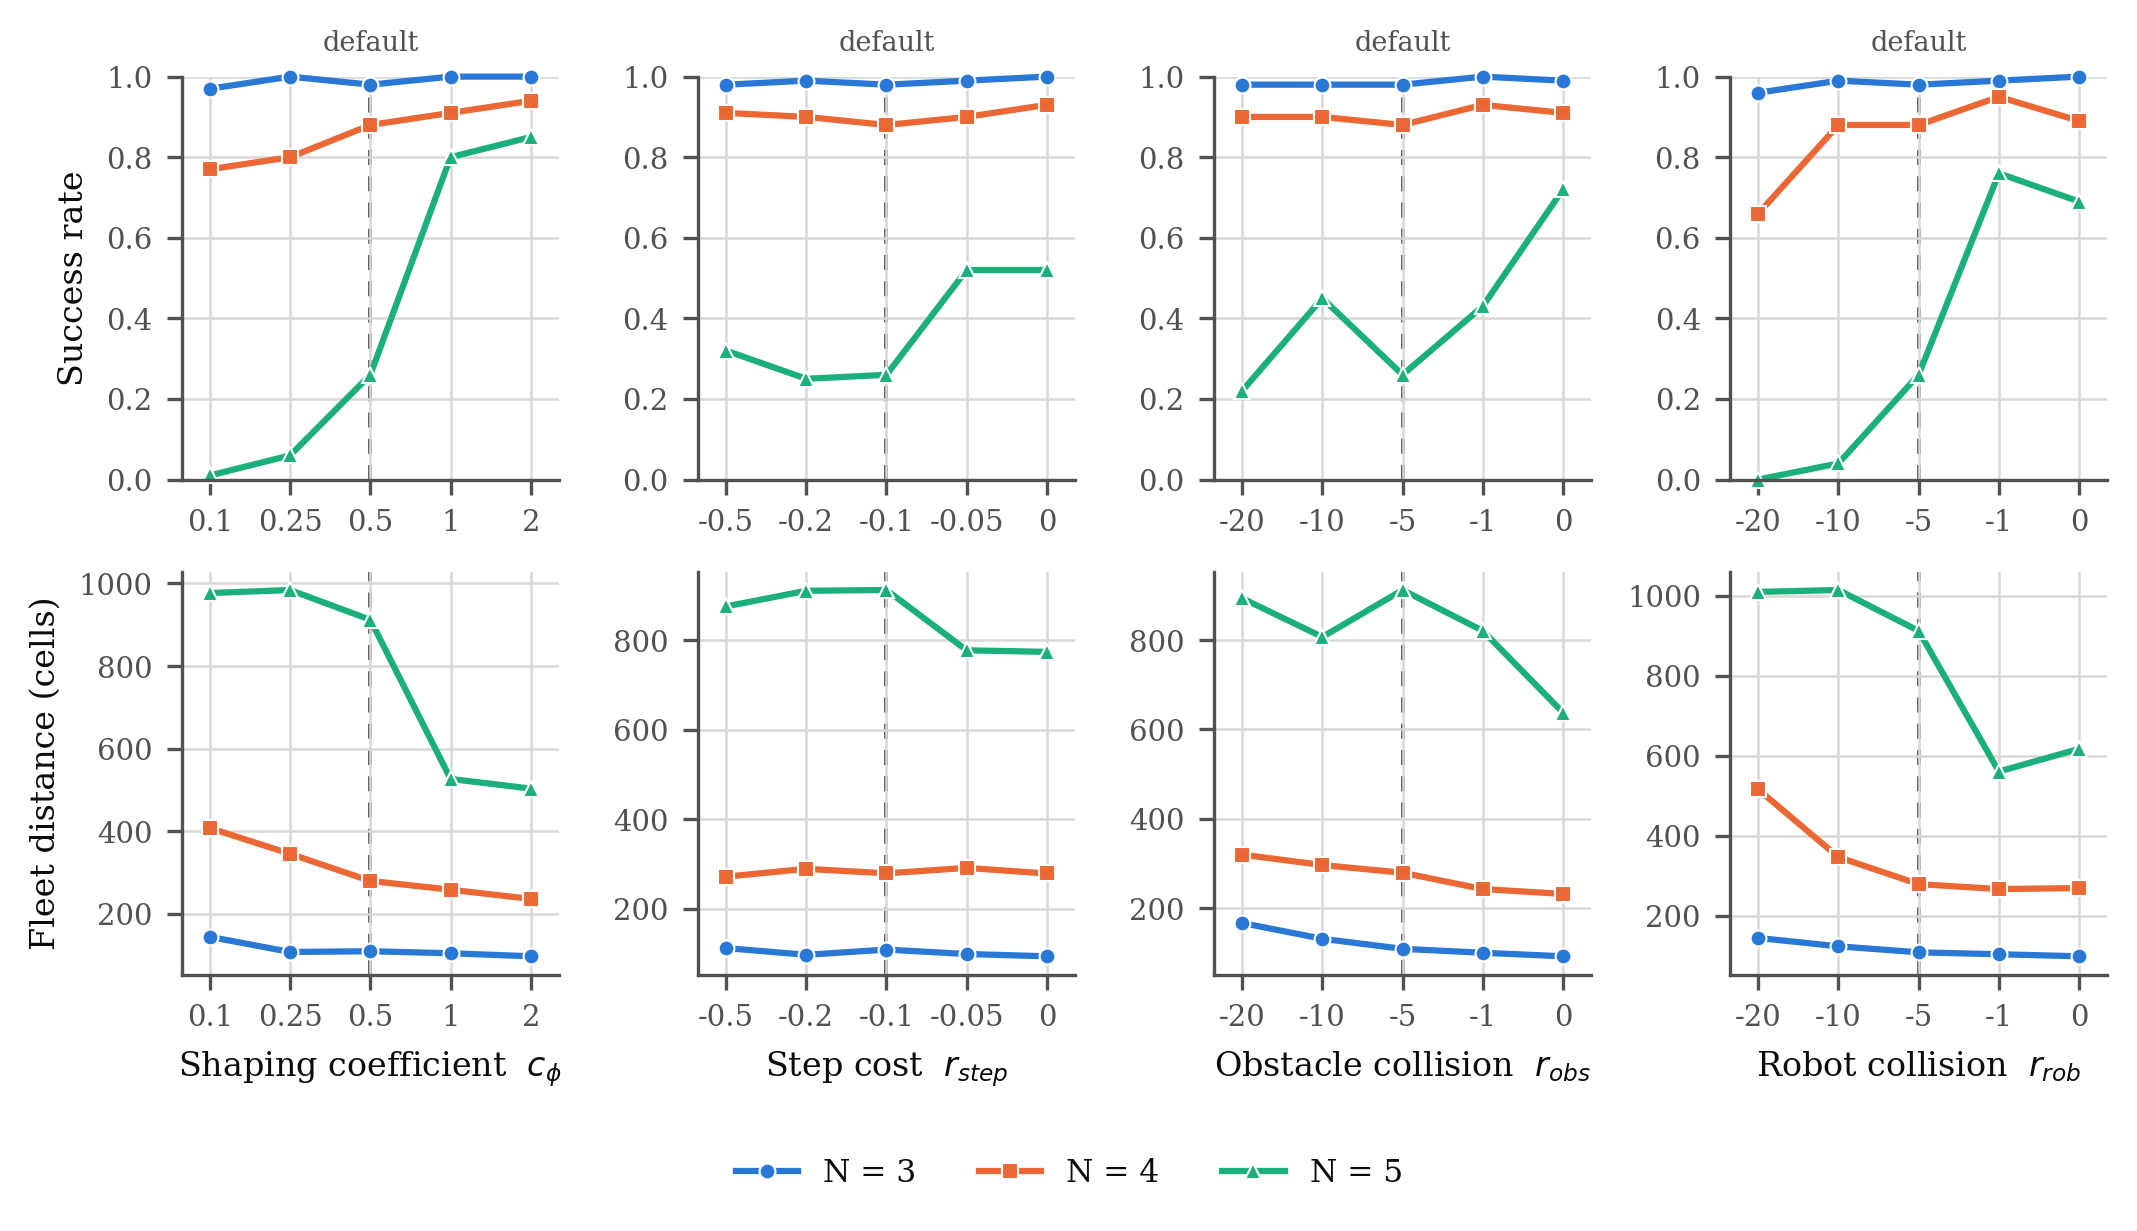
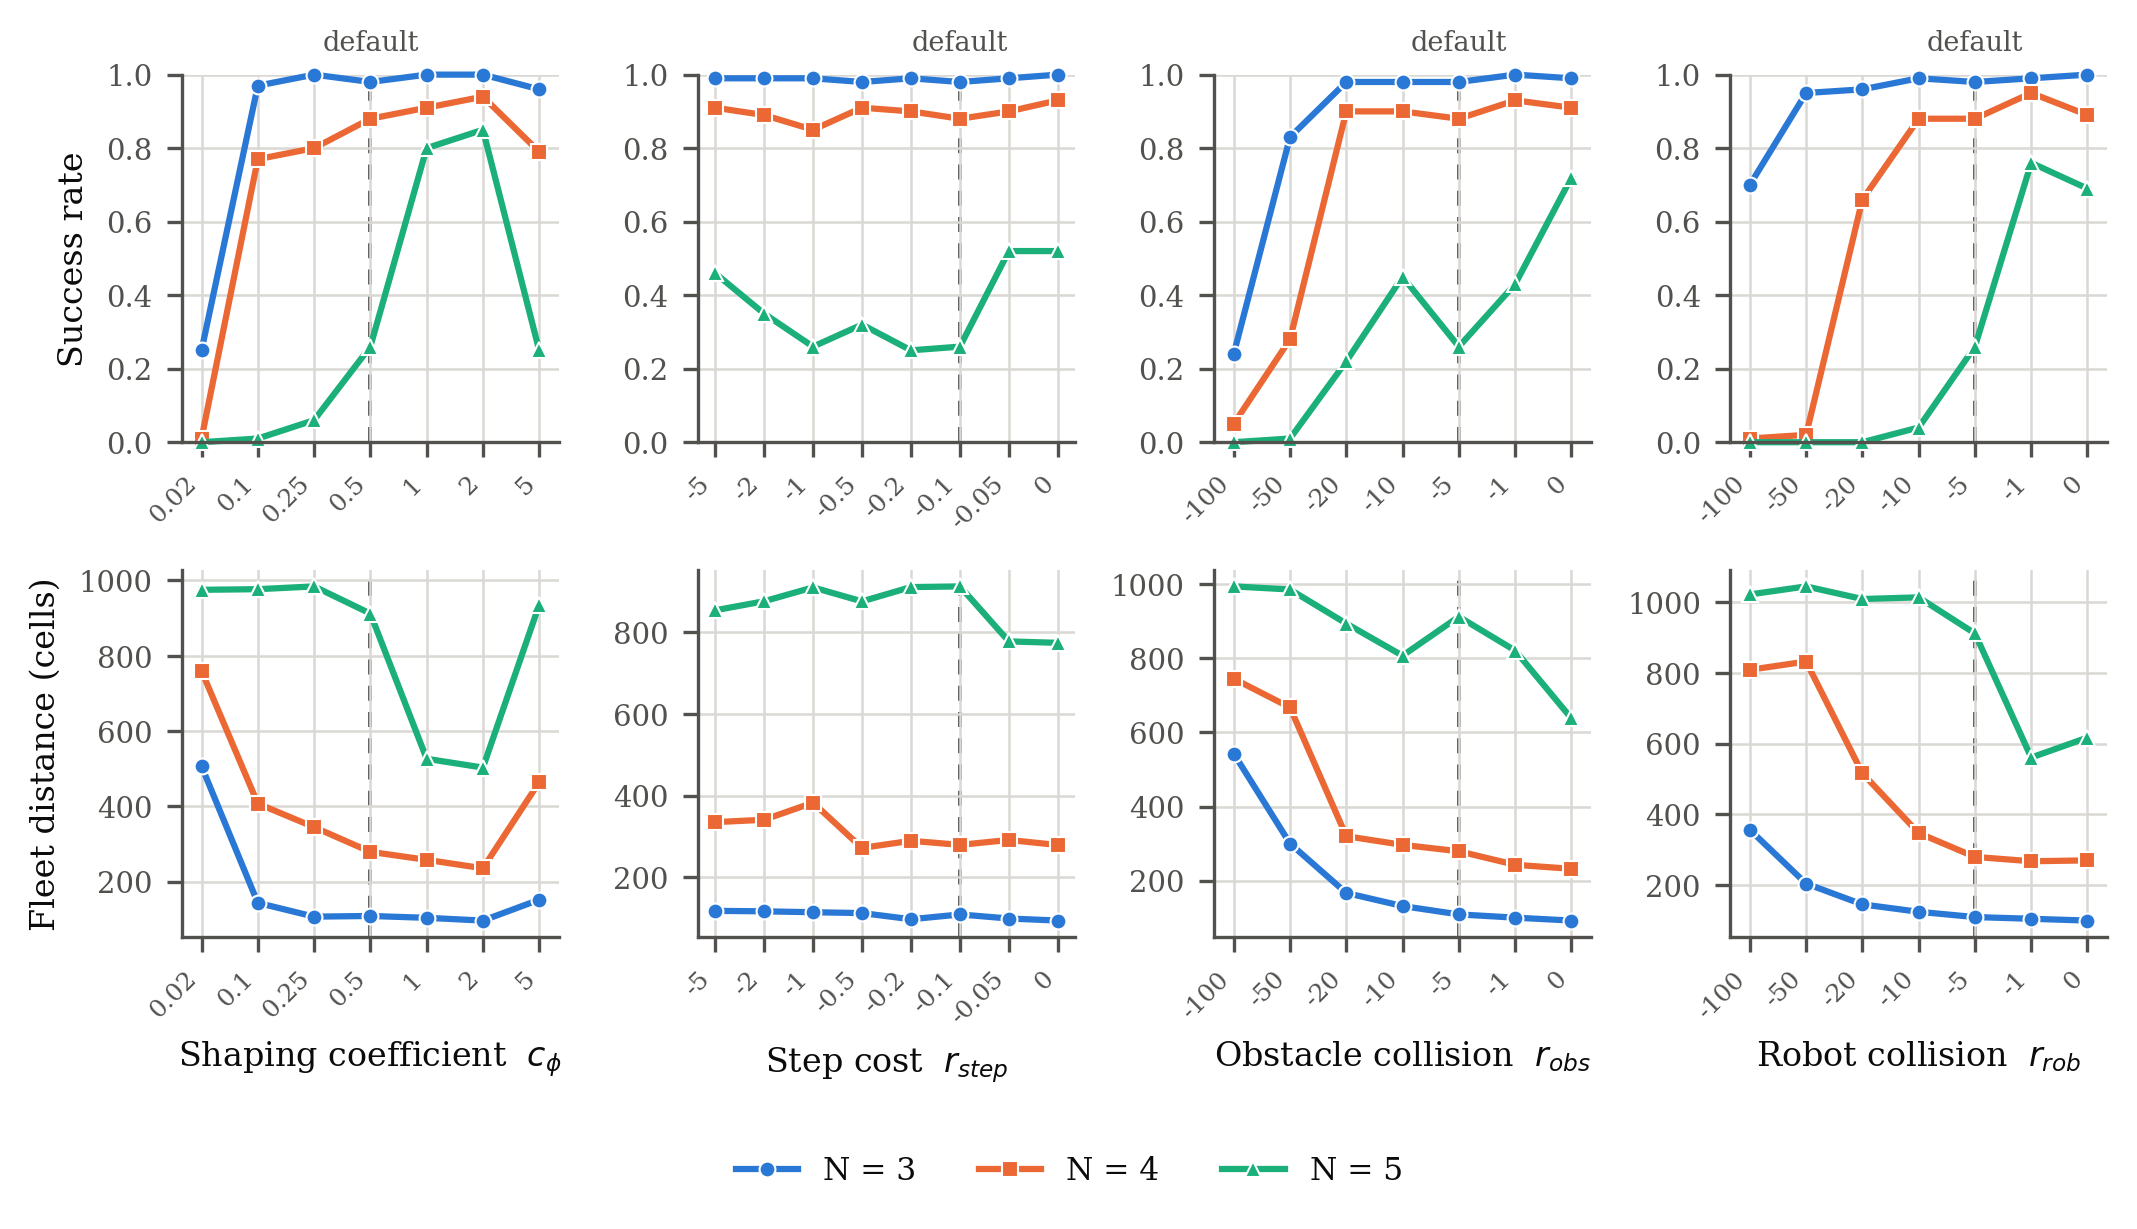
Regenerate sensitivity figure with the extended ranges (5090 sweep)
The widened ranges break the plateau at both ends, so the figure now
shows a bounded robust region rather than four flat lines:
  c_phi   0.02 collapses (0.25/0.01/0.00 for N=3/4/5) and 5.0 degrades
          (0.96/0.79/0.25) -- an interior optimum around 1-2
  r_obs   -100 collapses (0.24/0.05/0.00); plateau from -20 to 0
  r_rob   -100/-50 collapse (0.70/0.01/0.00); plateau from -10 to 0
  r_step  flat over the entire -5..0 range at N=3/4 (spread 0.02/0.08)
          -- a genuine insensitivity result, now credible because the
          tested range spans values that dominate the return

Tick labels rotated; 7-8 levels per panel no longer collide.

diff --git a/paper_rev2/plot_sensitivity.py b/paper_rev2/plot_sensitivity.py
@@ -98,7 +98,8 @@ def main():
             if levels:
                 ax.set_xlim(-0.35, len(levels) - 0.65)
                 ax.set_xticks(list(pos.values()))
-                ax.set_xticklabels([f"{v:g}" for v in levels])
+                ax.set_xticklabels([f"{v:g}" for v in levels],
+                                   rotation=45, ha="right", fontsize=6)
             ax.grid(True, color=GRID, linewidth=0.6, zorder=0)
             ax.set_axisbelow(True)
             for spine in ("top", "right"):
